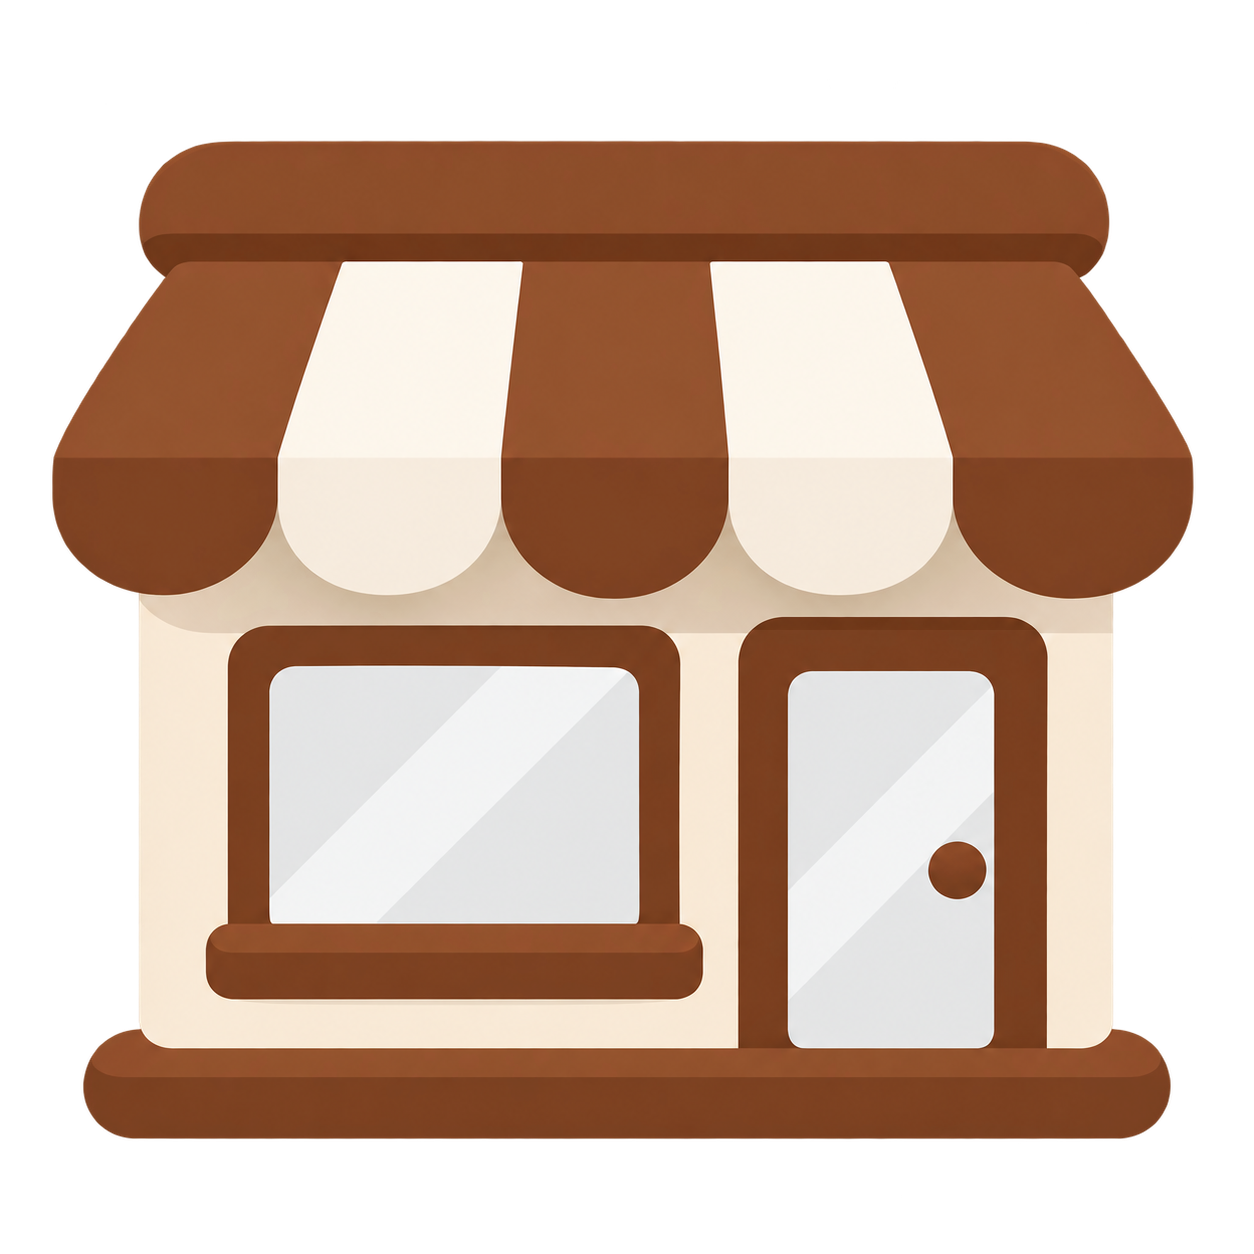
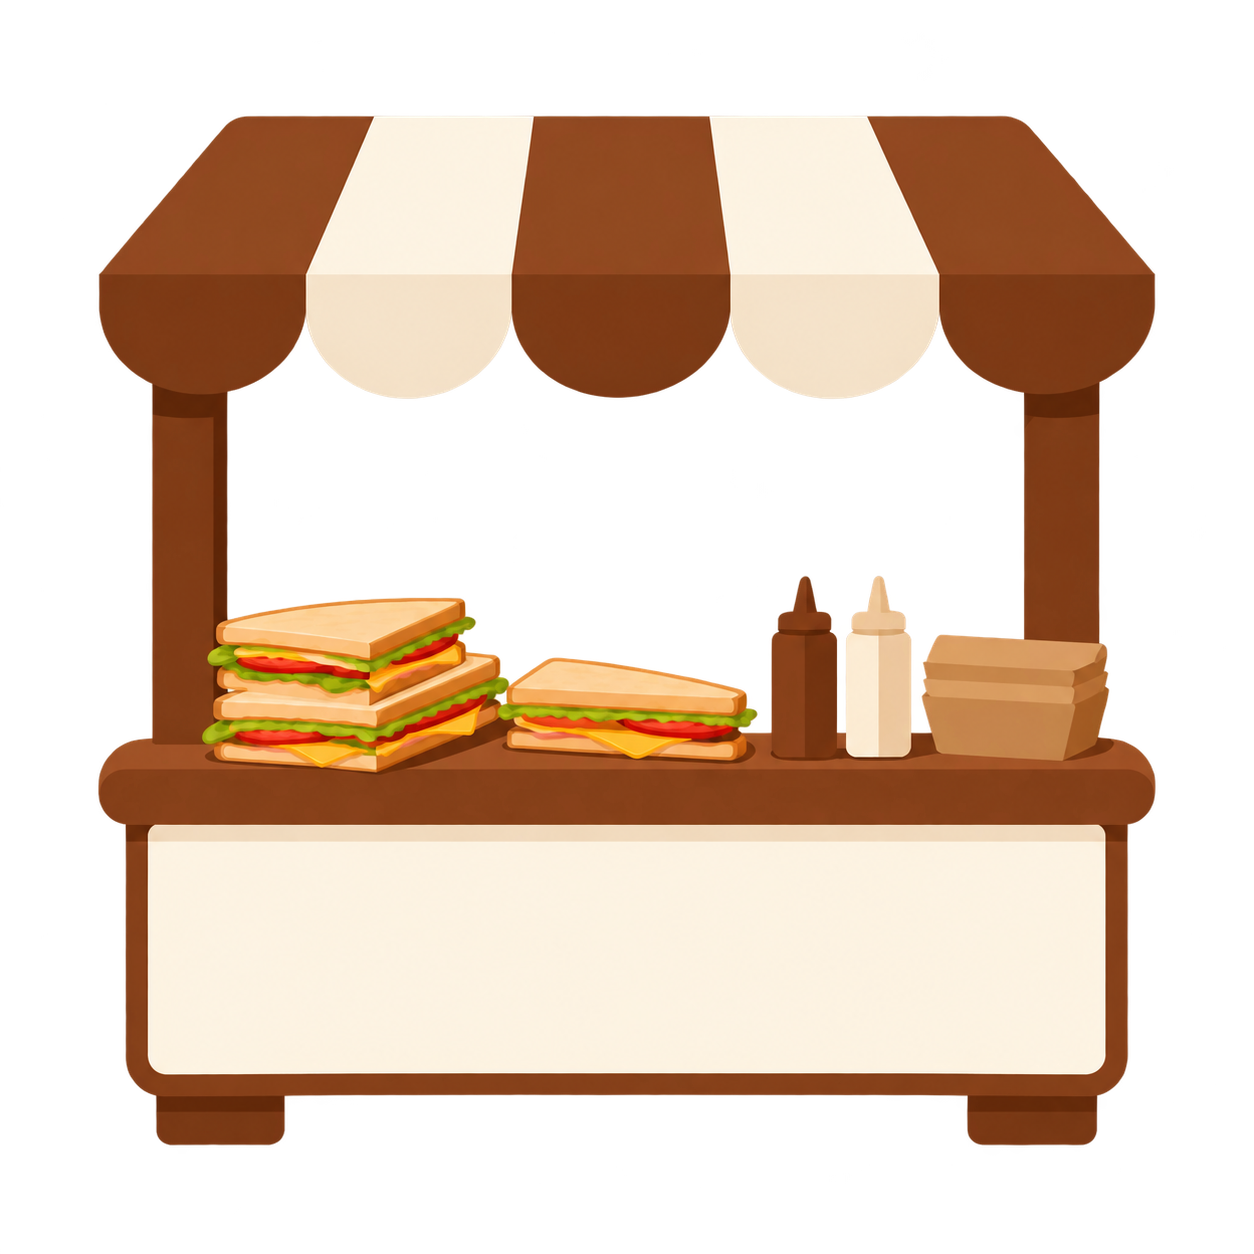
update

diff --git a/public/index.html b/public/index.html
@@ -14,7 +14,7 @@
 <meta name="apple-mobile-web-app-status-bar-style" content="black-translucent">
 <meta name="apple-mobile-web-app-title" content="L&amp;K Sandwiches">
 <script>document.documentElement.classList.add(location.pathname.replace(/\/$/, '') === '/branch-order' ? 'branchOrderPage' : 'preOrderPage', 'orderPageEntering');</script>
-<link rel="stylesheet" href="assets/css/customer-menu.css?v=branch-chooser-size-1">
+<link rel="stylesheet" href="assets/css/customer-menu.css?v=branch-chooser-size-2">
 </head>
 <body>
 <div class="app">
@@ -82,7 +82,7 @@
       </a>
       <a class="orderModeBtn orderModeBranch" href="branch-order.html?choose=branch">
         <span class="orderModeBtnIcon" aria-hidden="true">
-          <img src="img/branch-order-icon.png?v=storefront-2" alt="">
+          <img src="img/branch-order-icon.png?v=storefront-4" alt="">
         </span>
         <span><strong>Branch order</strong><small>Today’s daily menu</small></span>
       </a>
@@ -106,7 +106,7 @@
 
   <div class="dailyOrderMode" id="dailyOrderMode" hidden>
     <span class="orderModeBtnIcon" aria-hidden="true">
-      <img src="img/branch-order-icon.png?v=storefront-2" alt="">
+      <img src="img/branch-order-icon.png?v=storefront-4" alt="">
     </span>
     <span class="dailyOrderModeCopy"><strong id="dailyOrderBranchName">ទីតាំងទី ១</strong><small id="dailyOrderBranchAddress">ABA Grand Phnom Penh</small></span>
     <div class="dailyOrderModeActions">
@@ -213,20 +213,17 @@
     <dialog class="dailyBranchOrderOverlay" id="dailyBranchOrderOverlay" aria-labelledby="orderFlowTitle">
     <section class="orderFlowCard" id="dailyBranchOrder">
       <div class="orderFlowHead">
-        <span class="orderFlowIcon" aria-hidden="true">
-          <svg viewBox="0 0 24 24" fill="none" stroke="currentColor" stroke-width="2" stroke-linecap="round" stroke-linejoin="round"><path d="M6 8h12l-1 12H7L6 8Z"/><path d="M9 8a3 3 0 0 1 6 0"/><path d="M9.5 13h5"/></svg>
-        </span>
         <div>
-          <h3 id="orderFlowTitle">Order from a branch</h3>
-          <p class="orderFlowSubtitle">Choose a location to see what is available today.</p>
+          <h3 id="orderFlowTitle">កុម្ម៉ង់ទុកពីសាខា</h3>
+          <p class="orderFlowSubtitle">ជ្រើសរើសទីតាំង ដើម្បីមើលមុខម្ហូបដែលមានសម្រាប់ថ្ងៃនេះ</p>
         </div>
         <button type="button" class="orderFlowClose" id="orderFlowClose" aria-label="Close branch selection">&times;</button>
       </div>
 
       <div class="dailyBranchChoices" aria-label="Choose a branch for a daily order">
-        <button type="button" data-daily-branch="branch-1"><span>1</span><strong>ទីតាំងទី ១</strong><small>ABA Grand Phnom Penh</small></button>
-        <button type="button" data-daily-branch="branch-2"><span>2</span><strong>ទីតាំងទី ២</strong><small>Russey Keo (598)</small></button>
-        <button type="button" data-daily-branch="branch-3"><span>3</span><strong>ទីតាំងទី ៣</strong><small>AEON Mall Sen Sok</small></button>
+        <button type="button" data-daily-branch="branch-1"><span><img src="img/branch-order-icon.png?v=storefront-4" alt=""></span><strong>ទីតាំងទី ១</strong><small>ABA Grand Phnom Penh</small></button>
+        <button type="button" data-daily-branch="branch-2"><span><img src="img/branch-order-icon.png?v=storefront-4" alt=""></span><strong>ទីតាំងទី ២</strong><small>Russey Keo (598)</small></button>
+        <button type="button" data-daily-branch="branch-3"><span><img src="img/branch-order-icon.png?v=storefront-4" alt=""></span><strong>ទីតាំងទី ៣</strong><small>AEON Mall Sen Sok</small></button>
       </div>
     </section>
     </dialog>

diff --git a/public/assets/css/customer-menu.css b/public/assets/css/customer-menu.css
@@ -512,13 +512,13 @@
     background:linear-gradient(145deg,#fffaf5,#f7eee5); color:var(--ink);
     box-shadow:0 8px 22px rgba(43,33,24,.07);
   }
-  .orderFlowHead{ display:flex; align-items:center; gap:11px; margin-bottom:15px; }
+  .orderFlowHead{ display:flex; align-items:center; gap:14px; margin-bottom:15px; }
   .orderFlowIcon{
-    width:40px; height:40px; flex:0 0 40px; border-radius:13px;
+    width:30px; height:30px; flex:0 0 30px; border-radius:10px;
     display:flex; align-items:center; justify-content:center;
-    background:var(--crust-500); color:#fff; box-shadow:0 5px 12px rgba(114,60,16,.18);
+    background:#fff; color:inherit; box-shadow:0 2px 7px rgba(43,33,24,.10);
   }
-  .orderFlowIcon svg{ width:19px; height:19px; }
+  .orderFlowIcon img{ width:30px; height:30px; object-fit:contain; display:block; }
   .orderFlowHead h3{
     font-family:'Inter','Khmer OS Sans','Noto Sans Khmer',sans-serif;
     font-size:17px; line-height:1.2; font-weight:750; color:var(--ink);
@@ -533,8 +533,9 @@
   .dailyBranchChoices button:active{ transform:scale(.985); background:#fff7ef; }
   .dailyBranchChoices button > span{
     grid-row:1 / 3; width:40px; height:40px; border-radius:12px; display:flex; align-items:center; justify-content:center;
-    background:rgba(114,60,16,.1); color:var(--crust-500); font:700 14px 'Inter',sans-serif;
+    background:transparent; color:var(--crust-500); font:700 14px 'Inter',sans-serif;
   }
+  .dailyBranchChoices button > span img{ width:40px; height:40px; object-fit:contain; display:block; }
   .dailyBranchChoices strong{ font:700 15px/1.3 'Inter','Khmer OS Sans','Noto Sans Khmer',sans-serif; }
   .dailyBranchChoices small{ color:var(--ink-soft); font-size:12px; line-height:1.35; }
 

diff --git a/public/branch-order.html b/public/branch-order.html
@@ -9,7 +9,7 @@
 <link rel="preconnect" href="https://fonts.gstatic.com" crossorigin>
 <link href="https://fonts.googleapis.com/css2?family=Fraunces:wght@500;600;700&amp;family=Inter:wght@400;500;600;700&amp;family=DM+Mono:wght@400;500&amp;family=Noto+Sans+Khmer:wght@500;600;700&amp;display=swap" rel="stylesheet">
 <link rel="stylesheet" href="https://unpkg.com/leaflet@1.9.4/dist/leaflet.css">
-<link rel="stylesheet" href="assets/css/customer-menu.css?v=branch-chooser-size-1">
+<link rel="stylesheet" href="assets/css/customer-menu.css?v=branch-chooser-size-2">
 </head>
 <body>
   <main id="branchPageMount"><p style="padding:24px;text-align:center;font:600 14px Inter,sans-serif;color:#6b5f52">Loading daily menu…</p></main>
